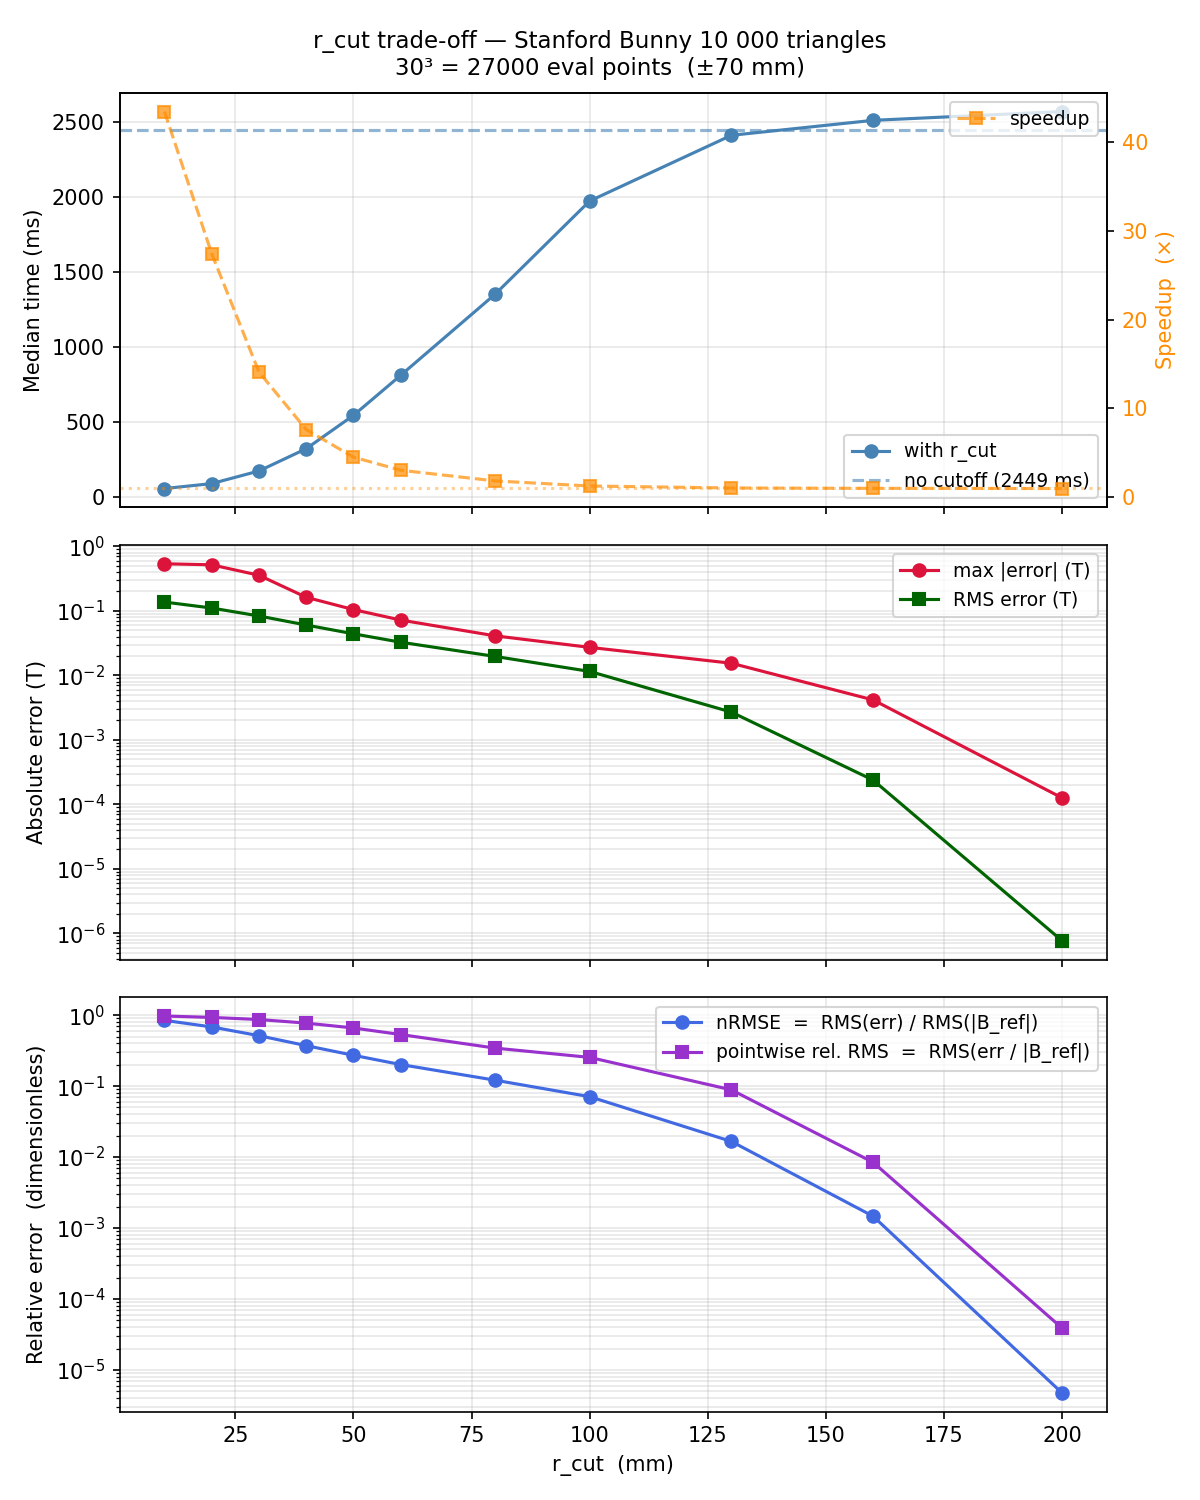
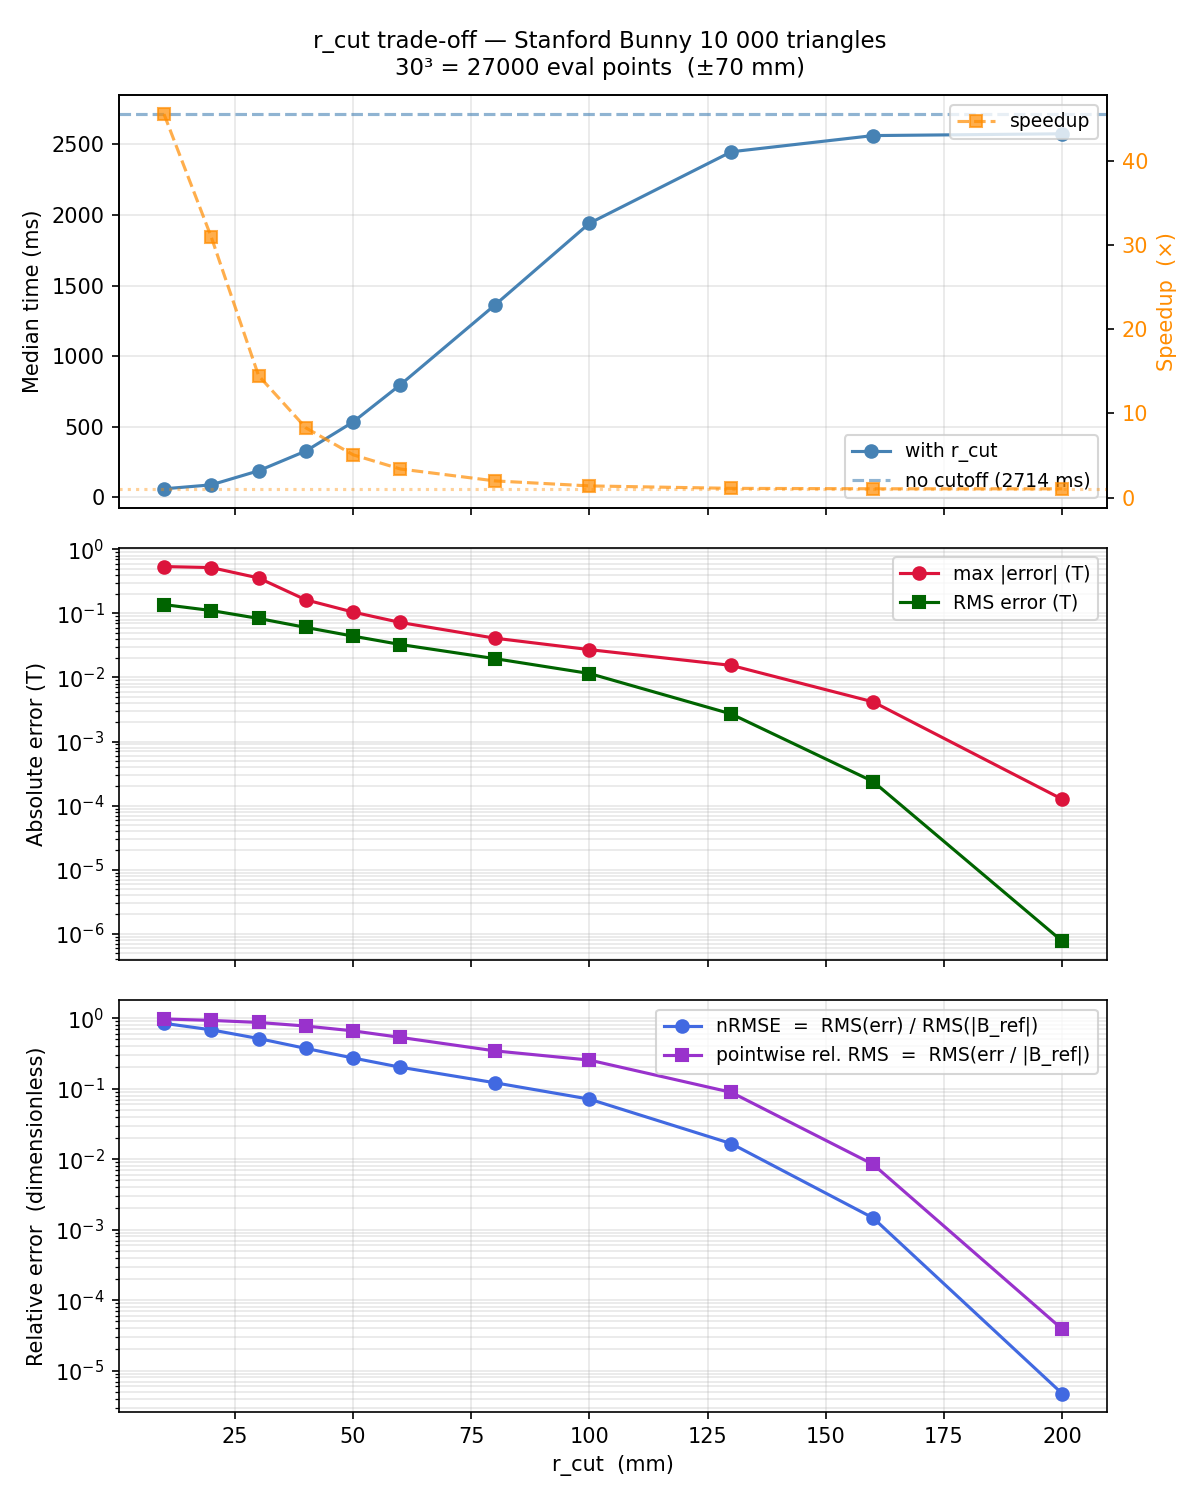
docs: internal updates

diff --git a/tests/test_pymagnet.py b/tests/test_pymagnet.py
@@ -8,8 +8,11 @@ TODO:
     - All tests need to be updated and expanded to reflect the new API.
 """
 
+from importlib.metadata import version as _pkg_version
+
 from pymagnet import __version__
 
 
 def test_version():
-    assert __version__ == "0.5.0"
+    """``__version__`` must track the version declared in pyproject.toml."""
+    assert __version__ == _pkg_version("pymagnet")

diff --git a/src/pymagnet/magnets/_magnet_base.py b/src/pymagnet/magnets/_magnet_base.py
@@ -124,7 +124,7 @@ class Magnet(Registry):
 
 
 def reset():
-    """Returns a list of all instantiated magnets."""
+    """Clears the instance registry of every magnet class."""
     from ._magnet2D import Circle, Magnet2D, Rectangle, Square
     from ._magnet3D import Cube, Cylinder, Magnet3D, Prism, Sphere
     from ._polygon2D import PolyMagnet

diff --git a/src/pymagnet/__init__.py b/src/pymagnet/__init__.py
@@ -8,7 +8,7 @@ User friendly magnetic field calculations
 Top level module for exposing the public API of usable modules
 """
 
-__version__ = "0.5.0"
+__version__ = "0.5.1"
 
 from . import config, forces, magnets, plots, utils
 from .magnets._magnet_base import list, reset

diff --git a/docs/magnets/magnets_3d.md b/docs/magnets/magnets_3d.md
@@ -119,7 +119,7 @@ B_z = \frac{\mu_0 n I}{2} \left[
 $$
 
 !!! Note
-    - This is equivalent to the equation in the [Cylinder section](#cylinder),
+    - This is equivalent to the equation in the [Cylinder section](magnets_1d.md#cylinder),
     where $\mu_0 n I \equiv \mu_0 M_r$
     - For an infinite solenoid, this reduces to $B_z = \mu_0 n I$ at its center
 
@@ -210,6 +210,153 @@ $$
     2\cos(\theta) \mathbf{\hat{r}} + \sin(\theta) \mathbf{\hat{\theta}}
      \right]
 $$
+
+## Meshes (STL)
+
+Arbitrary — including non-convex — geometries are supported by importing a
+triangulated surface from an STL file. The same Coulombic charge model used for
+the analytic magnets above applies: for a uniformly magnetised body the volume
+charge density vanishes, so the field is generated entirely by the surface
+charge
+
+$$
+\sigma_m = \mathbf{J} \cdot \mathbf{\hat{n}}
+$$
+
+which is evaluated per triangle. Each triangle of the mesh carries a uniform
+charge density given by the projection of the magnetisation onto its outward
+normal, and the total field is the sum over all triangles. Triangles lying
+parallel to $\mathbf{J}$ carry no charge and are skipped.
+
+### Creating a mesh magnet
+
+``` python
+import pymagnet as pm
+
+pm.reset()
+
+magnet = pm.magnets.Mesh(
+    "bunny.stl",
+    Jr=1.0,
+    center=(0, 0, 0),
+    mesh_scale=1.0,
+)
+```
+
+**Parameters:**
+
+| Parameter | Type | Default | Description |
+|-----------|------|---------|-------------|
+| `filename` | str | required | Path to the STL file to import |
+| `Jr` | float | `1.0` | Signed remanent magnetisation (T) |
+| `center` | tuple | `(0, 0, 0)` | Position of the magnet centre |
+| `phi` | float | `90.0` | Azimuthal angle of the magnetisation (degrees) |
+| `theta` | float | `0.0` | Polar angle of the magnetisation (degrees) |
+| `mesh_scale` | float | `1.0` | Scaling factor applied to the imported mesh |
+
+!!! warning "Magnetisation and mesh rotation"
+    The magnetisation direction is set by `phi`/`theta`. Rotating the mesh
+    itself via `alpha`/`beta`/`gamma` does not currently rotate
+    $\mathbf{J}$ with it.
+
+### Calculating the field
+
+``` python
+import numpy as np
+
+x = np.linspace(-70, 70, 30)
+X, Y, Z = np.meshgrid(x, x, x, indexing="ij")
+
+Bx, By, Bz = magnet.get_field(X, Y, Z)
+```
+
+**Parameters:**
+
+| Parameter | Type | Default | Description |
+|-----------|------|---------|-------------|
+| `x`, `y`, `z` | float/ndarray | required | Evaluation point coordinates |
+| `parallel` | bool | `True` | Use the parallel Numba kernel |
+| `r_cut` | float | `np.inf` | Distance cutoff (see below) |
+
+### Distance cutoff: `r_cut`
+
+The cost of a mesh evaluation is $O(N_\mathrm{tri} \times N_\mathrm{points})$,
+which dominates runtime for large meshes. Because the contribution of a charged
+triangle falls off with distance, triangles whose centroid lies farther than
+`r_cut` from an evaluation point can be skipped:
+
+``` python
+Bx, By, Bz = magnet.get_field(X, Y, Z, r_cut=40.0)
+```
+
+`r_cut` is in the same length units as the mesh coordinates (normally mm). The
+default, `np.inf`, performs no culling and is numerically exact.
+
+!!! danger "`r_cut` trades accuracy for speed — and the trade is steep"
+    Culling is an approximation. The surface charges of a closed magnetised body
+    very nearly cancel when seen from a distance, so discarding some of them
+    removes a large contribution relative to the small net field that remains.
+    The error is therefore worst at points far from the magnet, which is exactly
+    where the cutoff saves the most work.
+
+Measured on `Stanford_Bunny_10000.stl` (10 000 triangles, a 30³ = 27 000 point
+grid spanning ±70 mm, reference time 2.714 s) by
+`benchmarks/benchmark_rcut.py`:
+
+| `r_cut` | Median time | Speedup | nRMSE | Pointwise rel. RMS |
+|---------|-------------|---------|-------|--------------------|
+| 20 mm | 87.8 ms | 30.9× | 0.683 | 0.930 |
+| 40 mm | 327.4 ms | 8.3× | 0.372 | 0.774 |
+| 60 mm | 797.0 ms | 3.4× | 0.202 | 0.534 |
+| 80 mm | 1.362 s | 2.0× | 0.121 | 0.344 |
+| 100 mm | 1.941 s | 1.4× | 0.071 | 0.254 |
+| 130 mm | 2.447 s | 1.1× | 0.017 | 0.089 |
+| 160 mm | 2.562 s | 1.06× | 0.0015 | 0.0084 |
+| 200 mm | 2.575 s | 1.05× | ~0 | ~0 |
+
+where nRMSE is the RMS error normalised by the RMS of the reference field, and
+the last column is the RMS of the per-point relative error.
+
+Read that table before reaching for `r_cut`. On this geometry the cutoffs that
+are genuinely fast are also badly wrong — a 30× speedup comes with an error
+comparable to the field itself — while the cutoffs accurate to a few percent are
+barely faster than no cutoff at all. `r_cut` is worth using when the evaluation
+region is small and close to the magnet compared with the extent of the mesh,
+and it is not a general-purpose speed knob. Always validate against an
+`r_cut=np.inf` reference for the geometry and evaluation grid you actually care
+about.
+
+### Multiple meshes in one pass
+
+`get_total_field_mesh()` concatenates the triangles of several meshes and
+evaluates them in a single parallel pass, which avoids re-traversing the
+evaluation grid once per magnet:
+
+``` python
+from pymagnet.magnets import get_total_field_mesh
+
+m1 = pm.magnets.Mesh("left.stl",  Jr=1.0, center=(-30, 0, 0))
+m2 = pm.magnets.Mesh("right.stl", Jr=1.0, center=( 30, 0, 0))
+
+B = get_total_field_mesh([m1, m2], X, Y, Z)
+print(B.x, B.y, B.z)
+```
+
+The result is numerically identical to summing the individual `get_field()`
+calls. It returns a `Field3` object rather than a tuple. An `r_cut` argument is
+accepted and behaves as above.
+
+### Forces and torques
+
+``` python
+force, torque = magnet.get_force_torque(depth=4)
+```
+
+Each mesh triangle is recursively subdivided into $4^\mathrm{depth}$
+sub-triangles for the surface integration. See
+[Forces & Torques](../forces_torques.md) for details.
+
+---
 
 !!! note
     - SI Units with the Sommerfeld convetion are used for this discussion:

diff --git a/docs/plots/plots_3d.md b/docs/plots/plots_3d.md
@@ -49,7 +49,7 @@ from pymagnet.plots import plot_magnet
 import pymagnet as pm
 from pymagnet.plots import plot_magnet
 
-pm.reset_magnets()
+pm.reset()
 pm.magnets.Prism(Jr=1.0, center=(0, 0, 0), size=(10, 10, 5))
 pm.magnets.Cylinder(Jr=1.0, center=(20, 0, 0), radius=5, length=10)
 
@@ -57,7 +57,7 @@ fig = plot_magnet(unit="mm", magnet_opacity=0.8)
 ```
 
 <figure>
-  <img src="../img/3d_prism.png" width="400" />
+  <img src="../../img/3d_prism.png" width="400" />
   <figcaption>3D rendering of a prism magnet</figcaption>
 </figure>
 
@@ -112,7 +112,7 @@ import pymagnet as pm
 from pymagnet.utils import slice3D, get_field_3D
 from pymagnet.plots import slice_plot
 
-pm.reset_magnets()
+pm.reset()
 pm.magnets.Prism(Jr=1.0, center=(0, 0, 0), size=(10, 10, 5))
 
 # Calculate field on XY plane at z=0
@@ -166,7 +166,7 @@ from pymagnet.plots import slice_quickplot
 import pymagnet as pm
 from pymagnet.plots import slice_quickplot
 
-pm.reset_magnets()
+pm.reset()
 pm.magnets.Prism(Jr=1.0, center=(0, 0, 0), size=(10, 10, 5))
 
 fig, cache, data_objects = slice_quickplot(
@@ -180,7 +180,7 @@ fig, cache, data_objects = slice_quickplot(
 ```
 
 <figure>
-  <img src="../img/3d_example_slice_1.png" width="500" />
+  <img src="../../img/3d_example_slice_1.png" width="500" />
   <figcaption>Slice plot showing XY and XZ planes through a prism magnet</figcaption>
 </figure>
 
@@ -231,7 +231,7 @@ import pymagnet as pm
 from pymagnet.utils import grid3D, get_field_3D
 from pymagnet.plots import volume_plot
 
-pm.reset_magnets()
+pm.reset()
 pm.magnets.Sphere(Jr=1.0, center=(0, 0, 0), radius=5)
 
 points = grid3D(xmax=15, ymax=15, zmax=15, num_points=30)
@@ -290,7 +290,7 @@ from pymagnet.plots import volume_quickplot
 import pymagnet as pm
 from pymagnet.plots import volume_quickplot
 
-pm.reset_magnets()
+pm.reset()
 pm.magnets.Cylinder(Jr=1.0, center=(0, 0, 0), radius=5, length=10)
 
 fig, cache, data_objects = volume_quickplot(
@@ -303,7 +303,7 @@ fig, cache, data_objects = volume_quickplot(
 ```
 
 <figure>
-  <img src="../img/3d_example_volume_1.png" width="500" />
+  <img src="../../img/3d_example_volume_1.png" width="500" />
   <figcaption>Volume plot showing magnetic field magnitude around a cylinder magnet</figcaption>
 </figure>
 
@@ -328,7 +328,7 @@ fig, cache, data_objects = volume_quickplot(
 ```
 
 <figure>
-  <img src="../img/3d_example_volume_2.png" width="500" />
+  <img src="../../img/3d_example_volume_2.png" width="500" />
   <figcaption>Volume plot with inverted opacity scale</figcaption>
 </figure>
 
@@ -349,7 +349,7 @@ fig, cache, data_objects = slice_quickplot(
 ```
 
 <figure>
-  <img src="../img/3d_example_slice_2.png" width="500" />
+  <img src="../../img/3d_example_slice_2.png" width="500" />
   <figcaption>Slice plot with vector arrows showing field direction</figcaption>
 </figure>
 

diff --git a/docs/forces_torques.md b/docs/forces_torques.md
@@ -77,7 +77,7 @@ from pymagnet.forces import calc_force_prism
 import pymagnet as pm
 from pymagnet.forces import calc_force_prism
 
-pm.reset_magnets()
+pm.reset()
 
 # Create two magnets - force will be calculated on magnet1
 magnet1 = pm.magnets.Prism(Jr=1.0, center=(0, 0, 0), size=(10, 10, 5))
@@ -118,7 +118,7 @@ from pymagnet.forces import calc_force_cylinder
 import pymagnet as pm
 from pymagnet.forces import calc_force_cylinder
 
-pm.reset_magnets()
+pm.reset()
 
 # Create two cylindrical magnets
 magnet1 = pm.magnets.Cylinder(Jr=1.0, center=(0, 0, 0), radius=5, length=10)
@@ -159,7 +159,7 @@ from pymagnet.forces import calc_force_sphere
 import pymagnet as pm
 from pymagnet.forces import calc_force_sphere
 
-pm.reset_magnets()
+pm.reset()
 
 # Create a sphere near a prism magnet
 sphere = pm.magnets.Sphere(Jr=1.0, center=(0, 0, 0), radius=5)
@@ -251,7 +251,7 @@ The `pymagnet.forces` module also exports utility functions for working with tri
 import pymagnet as pm
 from pymagnet.forces import calc_force_prism, calc_force_cylinder
 
-pm.reset_magnets()
+pm.reset()
 
 # Create a magnet array
 base = pm.magnets.Prism(Jr=1.2, center=(0, 0, 0), size=(20, 20, 5))

diff --git a/docs/methods/methods.md b/docs/methods/methods.md
@@ -218,7 +218,7 @@ For 3D plots, magnets are rendered as meshes using plotly's `Mesh3d` graphics ob
 
 | Function | Description |
 |----------|-------------|
-| `reset_magnets()` | Clear all instantiated magnets |
+| `reset()` | Clear all instantiated magnets |
 | `list_magnets()` | Print all current magnets |
 
 ---

diff --git a/docs/magnets/magnets_overview.md b/docs/magnets/magnets_overview.md
@@ -269,7 +269,7 @@ Clear all instantiated magnets from the registry:
 
 ```python
 import pymagnet as pm
-pm.reset_magnets()
+pm.reset()
 ```
 
 ### List All Magnets
